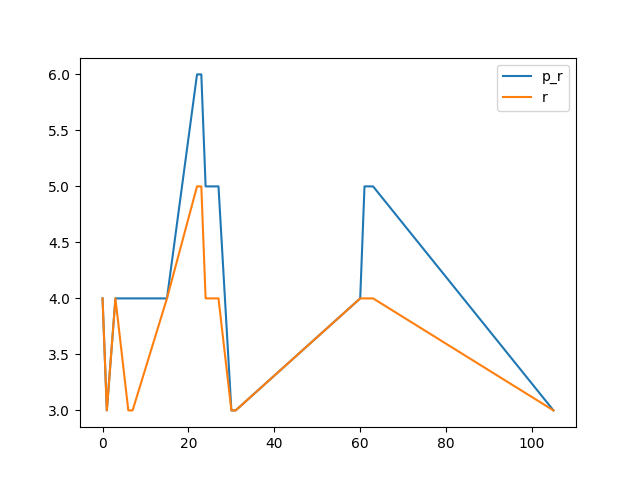
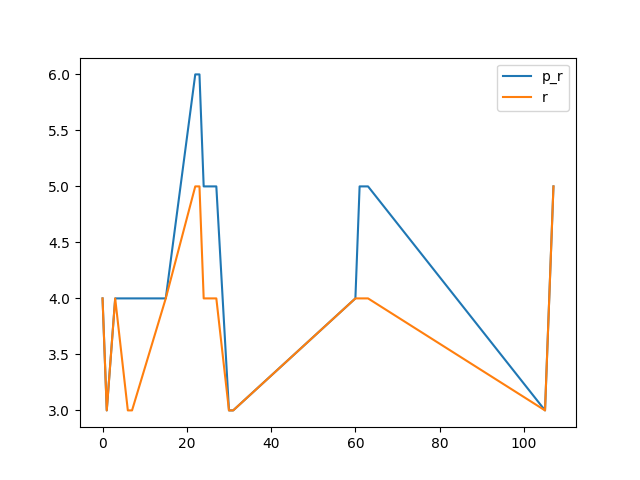
0x006B

diff --git a/benchmark.md b/benchmark.md
@@ -36,16 +36,18 @@
 
 [INFO] Synthesising NPN Class=16 TruthTable:0x0069 pexact:256 r=3 exact:256 r=3 time=129.2min 
 
+[INFO] Synthesising NPN Class=17 TruthTable:0x006B pexact:432 r=5 exact:464 r=5 time=250.84min 
+
 ```mermaid
 xychart-beta
     title "Comparison powertwoexact twoexact"
-    x-axis [0, 1, 3, 6, 7, 15, 22, 23, 24, 25, 27, 30, 31, 60, 61, 63, 105]
+    x-axis [0, 1, 3, 6, 7, 15, 22, 23, 24, 25, 27, 30, 31, 60, 61, 63, 105, 107]
     y-axis "Switching Activity" 0-->464
-    line [96, 152, 182, 208, 182, 182, 406, 400, 336, 310, 304, 224, 216, 280, 326, 238, 256]
-    line [192, 152, 312, 224, 192, 352, 464, 448, 352, 344, 320, 224, 216, 344, 336, 288, 256]
-    line [252.8235294117647, 252.8235294117647, 252.8235294117647, 252.8235294117647, 252.8235294117647, 252.8235294117647, 252.8235294117647, 252.8235294117647, 252.8235294117647, 252.8235294117647, 252.8235294117647, 252.8235294117647, 252.8235294117647, 252.8235294117647, 252.8235294117647, 252.8235294117647, 252.8235294117647]
-    line [295.05882352941177, 295.05882352941177, 295.05882352941177, 295.05882352941177, 295.05882352941177, 295.05882352941177, 295.05882352941177, 295.05882352941177, 295.05882352941177, 295.05882352941177, 295.05882352941177, 295.05882352941177, 295.05882352941177, 295.05882352941177, 295.05882352941177, 295.05882352941177, 295.05882352941177]
-    bar [80, 60, 80, 80, 80, 80, 120, 120, 100, 100, 100, 60, 60, 80, 100, 100, 60]
-    bar [80, 60, 80, 60, 60, 80, 100, 100, 80, 80, 80, 60, 60, 80, 80, 80, 60]
+    line [96, 152, 182, 208, 182, 182, 406, 400, 336, 310, 304, 224, 216, 280, 326, 238, 256, 432]
+    line [192, 152, 312, 224, 192, 352, 464, 448, 352, 344, 320, 224, 216, 344, 336, 288, 256, 464]
+    line [262.77777777777777, 262.77777777777777, 262.77777777777777, 262.77777777777777, 262.77777777777777, 262.77777777777777, 262.77777777777777, 262.77777777777777, 262.77777777777777, 262.77777777777777, 262.77777777777777, 262.77777777777777, 262.77777777777777, 262.77777777777777, 262.77777777777777, 262.77777777777777, 262.77777777777777, 262.77777777777777]
+    line [304.44444444444446, 304.44444444444446, 304.44444444444446, 304.44444444444446, 304.44444444444446, 304.44444444444446, 304.44444444444446, 304.44444444444446, 304.44444444444446, 304.44444444444446, 304.44444444444446, 304.44444444444446, 304.44444444444446, 304.44444444444446, 304.44444444444446, 304.44444444444446, 304.44444444444446, 304.44444444444446]
+    bar [80, 60, 80, 80, 80, 80, 120, 120, 100, 100, 100, 60, 60, 80, 100, 100, 60, 100]
+    bar [80, 60, 80, 60, 60, 80, 100, 100, 80, 80, 80, 60, 60, 80, 80, 80, 60, 100]
 ```
 
